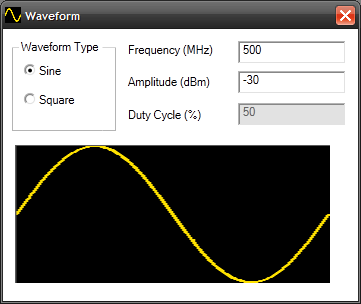
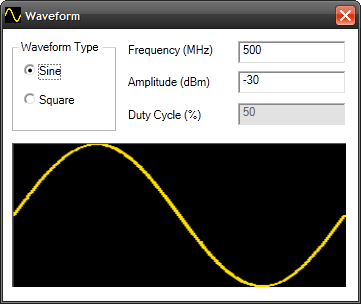
Tweaked desktop screenshot

Changed region(s): [[0.0305, 0.4441, 0.9751, 0.9474], [0.9751, 0.0, 1.0, 0.0296], [0.0, 0.0, 0.0305, 0.0296]]

diff --git a/desktop/app/MainWindow.xaml b/desktop/app/MainWindow.xaml
@@ -15,6 +15,6 @@
         <TextBox Height="23" HorizontalAlignment="Right" Margin="0,12,12,0" Name="frequency" VerticalAlignment="Top" Width="108" Text="500" />
         <TextBox Height="23" HorizontalAlignment="Right" Margin="0,42,12,0" Name="amplitude" VerticalAlignment="Top" Width="108" Text="-30" />
         <TextBox Height="23" HorizontalAlignment="Right" Margin="0,74,12,0" Name="dutyCycle" VerticalAlignment="Top" Width="108" Text="50" />
-        <Image Height="138" HorizontalAlignment="Left" Margin="12,116,0,0" Name="waveformImage" Stretch="Fill" VerticalAlignment="Top" Width="315" Source="/WaveformApp;component/square.png" />
+        <Image Height="144" HorizontalAlignment="Right" Margin="0,114,12,0" Name="waveformImage" Stretch="Fill" VerticalAlignment="Top" Width="334" Source="/WaveformApp;component/square.png" StretchDirection="Both" />
     </Grid>
 </Window>
